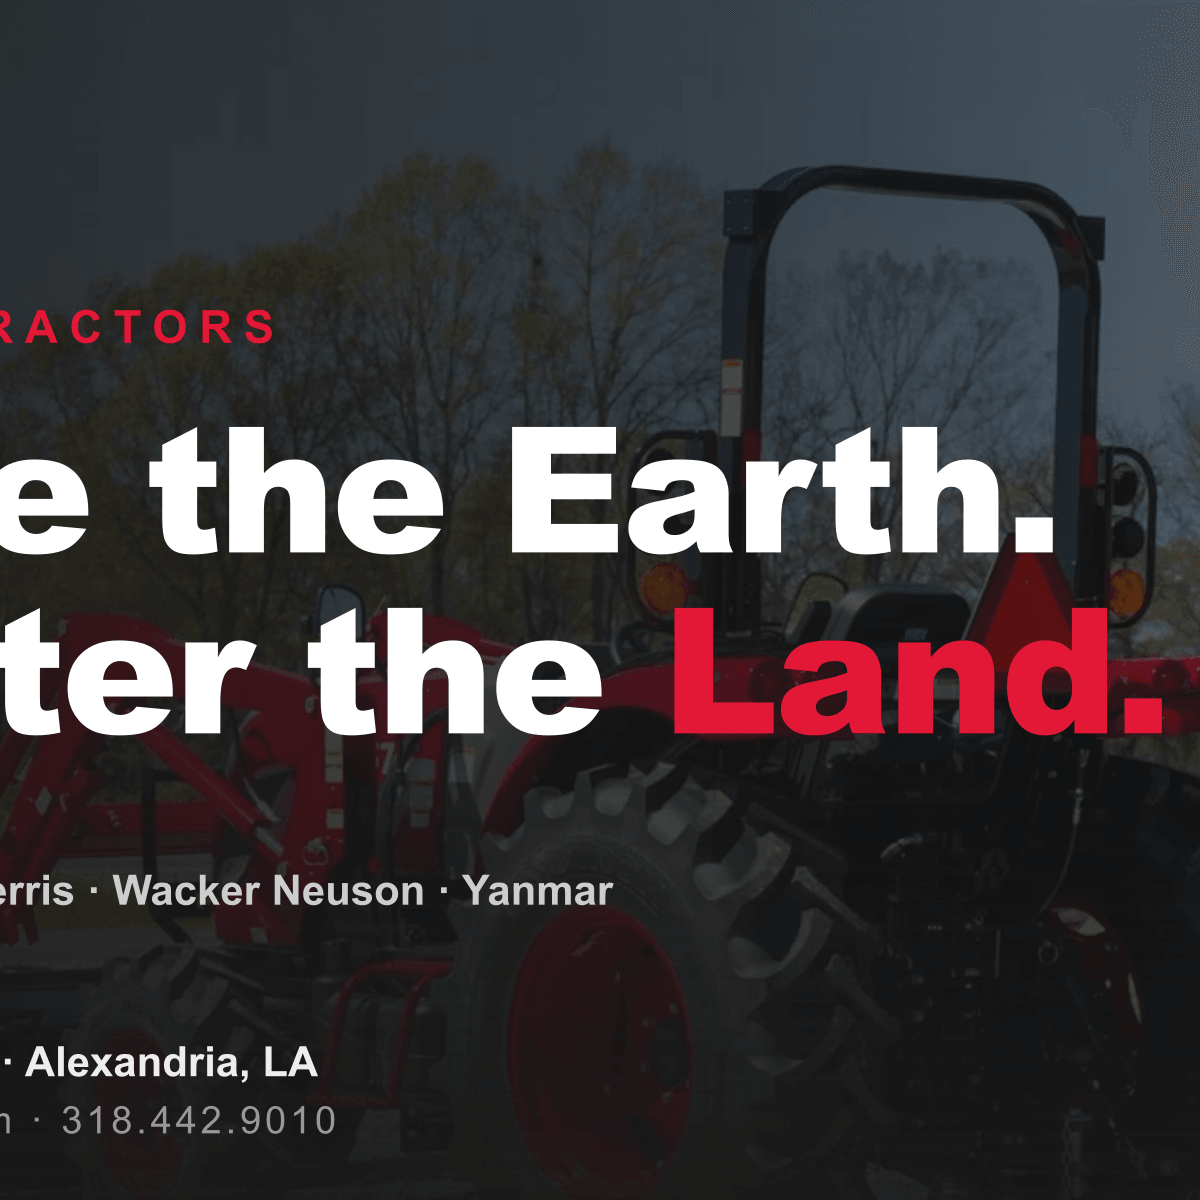
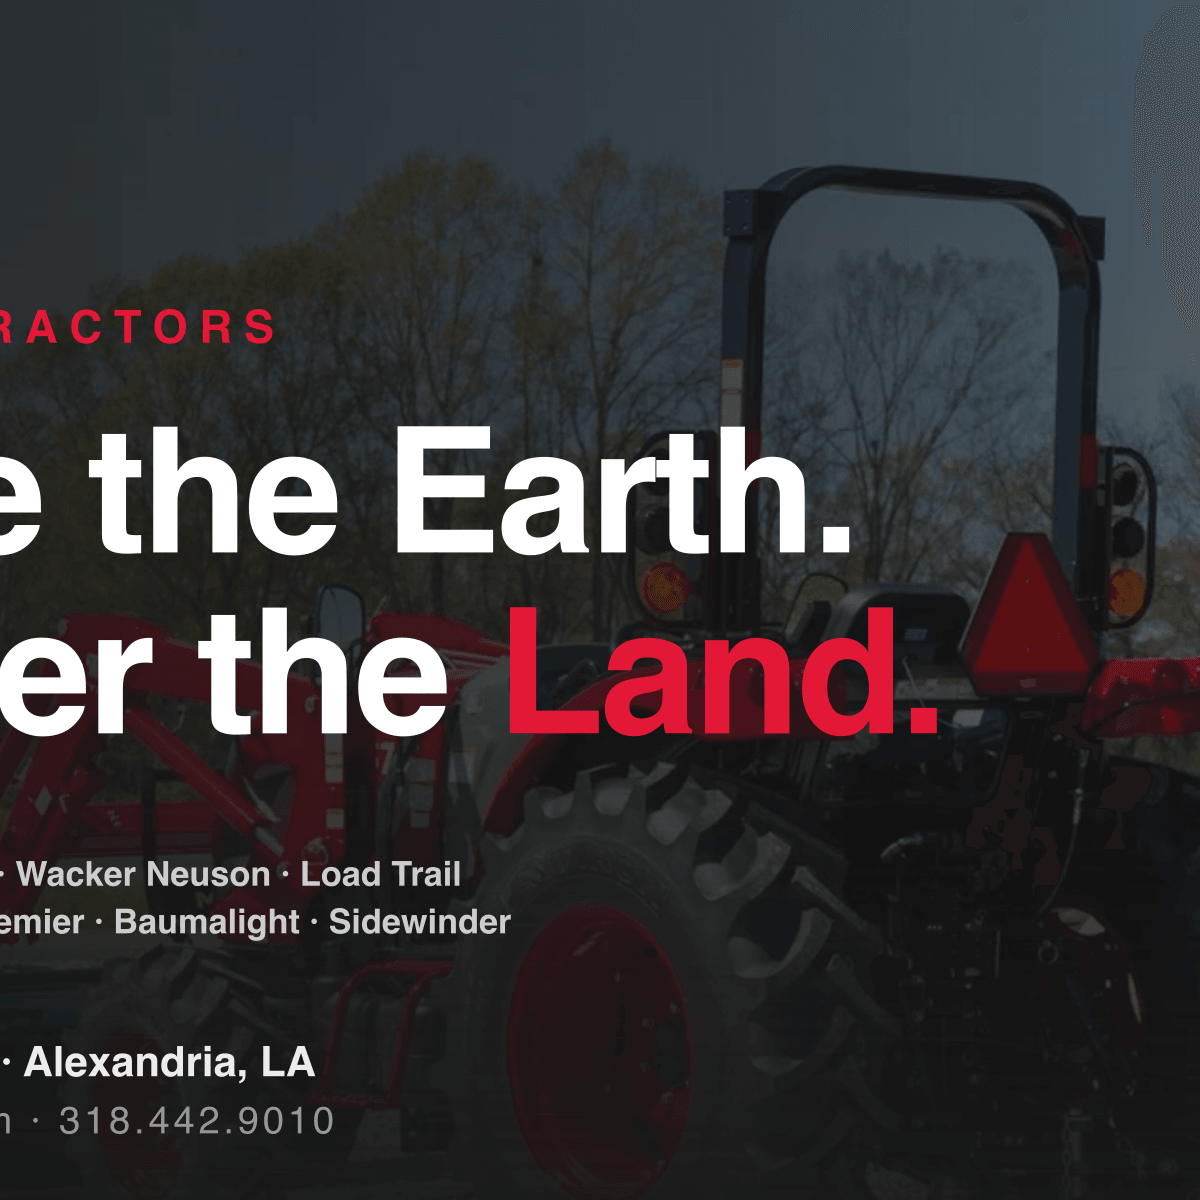
Update brands site-wide: add Load Trail, East Texas, Woods, Premier, Baumalight, Sidewinder

diff --git a/src/components/BrandLogos.tsx b/src/components/BrandLogos.tsx
@@ -4,7 +4,13 @@ const BrandLogos = () => {
         { name: "Mahindra", url: "/brands/mahindralogo.webp" },
         { name: "Ferris", url: "/brands/ferrislogo.webp" },
         { name: "TYM Tractors", url: "/brands/tymlogo.png" },
-        { name: "Wacker Neuson", url: "/brands/Wacker_Neuson_Logo.png" }
+        { name: "Wacker Neuson", url: "/brands/Wacker_Neuson_Logo.png" },
+        { name: "Load Trail", isText: true },
+        { name: "East Texas", isText: true },
+        { name: "Woods", isText: true },
+        { name: "Premier", isText: true },
+        { name: "Baumalight", isText: true },
+        { name: "Sidewinder", isText: true }
     ];
 
     return (
@@ -22,13 +28,19 @@ const BrandLogos = () => {
                             return (
                                 <div
                                     key={index}
-                                    className="shrink-0 snap-center w-28 sm:w-36 md:w-48 lg:w-56 xl:w-72 transition-transform duration-300 hover:-translate-y-1 hover:drop-shadow-md flex justify-center"
+                                    className="shrink-0 snap-center w-28 sm:w-36 md:w-48 lg:w-56 xl:w-72 transition-transform duration-300 hover:-translate-y-1 hover:drop-shadow-md flex justify-center items-center"
                                 >
-                                    <img 
-                                        src={brand.url} 
-                                        alt={`${brand.name} Logo`} 
-                                        className={`w-full h-auto object-contain ${isTYM ? 'max-h-16 sm:max-h-20 md:max-h-32 lg:max-h-40' : 'max-h-12 sm:max-h-16 md:max-h-28 lg:max-h-36'}`}
-                                    />
+                                    {brand.isText ? (
+                                        <span className="font-heading font-black text-xl sm:text-2xl md:text-3xl lg:text-4xl text-charcoal/80 uppercase tracking-tight text-center whitespace-nowrap">
+                                            {brand.name}
+                                        </span>
+                                    ) : (
+                                        <img 
+                                            src={brand.url} 
+                                            alt={`${brand.name} Logo`} 
+                                            className={`w-full h-auto object-contain ${isTYM ? 'max-h-16 sm:max-h-20 md:max-h-32 lg:max-h-40' : 'max-h-12 sm:max-h-16 md:max-h-28 lg:max-h-36'}`}
+                                        />
+                                    )}
                                 </div>
                             );
                         })}

diff --git a/src/pages/About.tsx b/src/pages/About.tsx
@@ -7,7 +7,7 @@ import PageHero from '../components/PageHero';
 
 const milestones = [
   { year: '2010s', title: 'One bay, one promise', copy: 'We opened on Hwy 71 with a simple rule: do right by the people who keep Louisiana running.' },
-  { year: 'Today', title: 'Full-line dealer', copy: 'TYM, Mahindra, Ferris, and Wacker Neuson, backed by a parts counter and factory-trained techs.' },
+  { year: 'Today', title: 'Full-line dealer', copy: 'TYM, Mahindra, Ferris, Wacker Neuson, Load Trail, East Texas, Woods, Premier, Baumalight, and Sidewinder, backed by a parts counter and factory-trained techs.' },
   { year: 'Always', title: 'Field-first support', copy: 'When season hits, you need answers fast. Our crew is determined to keep the iron turning.' },
 ];
 
@@ -25,7 +25,7 @@ const About = () => {
         <title>About Us | Red Dirt Tractors &amp; Construction Equipment</title>
         <meta
           name="description"
-          content="Family-owned TYM, Mahindra, Ferris, and Wacker Neuson dealer in Alexandria, LA. Our story, values, and why Central Louisiana trusts Red Dirt for iron and service."
+          content="Family-owned TYM, Mahindra, Ferris, Wacker Neuson, Load Trail, East Texas, Woods, Premier, Baumalight, and Sidewinder dealer in Alexandria, LA. Our story, values, and why Central Louisiana trusts Red Dirt for iron and service."
         />
         <link rel="canonical" href="https://reddirt-tractors.com/about" />
       </Helmet>

diff --git a/src/pages/DealerCity.tsx b/src/pages/DealerCity.tsx
@@ -14,7 +14,7 @@ const DealerCity = () => {
     }
 
     const title = `Tractor Dealer in ${city.name}, ${city.state} | Red Dirt Tractors`;
-    const description = `Authorized TYM, Mahindra, Ferris, and Wacker Neuson dealer serving ${city.name}, ${city.state} from our Alexandria, LA store. Sales, parts, service, financing, and trade-ins.`;
+    const description = `Authorized TYM, Mahindra, Ferris, Wacker Neuson, Load Trail, East Texas, Woods, Premier, Baumalight, and Sidewinder dealer serving ${city.name}, ${city.state} from our Alexandria, LA store. Sales, parts, service, financing, and trade-ins.`;
 
     const breadcrumbs = {
         '@context': 'https://schema.org',
@@ -69,7 +69,7 @@ const DealerCity = () => {
                         </h2>
                         <div className="space-y-5 text-charcoal/70 font-medium leading-relaxed text-base md:text-lg max-w-2xl">
                             <p>
-                                Red Dirt Tractors carries TYM, Mahindra, Ferris, and Wacker Neuson
+                                Red Dirt Tractors carries TYM, Mahindra, Ferris, Wacker Neuson, Load Trail, East Texas, Woods, Premier, Baumalight, and Sidewinder
                                 at our Alexandria store. Customers from {city.name} regularly
                                 drive in for sales and trade-ins, and we keep the parts counter and
                                 service bays running for ongoing support.

diff --git a/index.html b/index.html
@@ -27,7 +27,7 @@
     <meta property="og:image" content="https://reddirt-tractors.com/og-image.png" />
     <meta property="og:image:width" content="1200" />
     <meta property="og:image:height" content="630" />
-    <meta property="og:image:alt" content="Red Dirt Tractors - Move the Earth, Master the Land. Central Louisiana dealer for TYM, Mahindra, Ferris, and Wacker Neuson." />
+    <meta property="og:image:alt" content="Red Dirt Tractors - Move the Earth, Master the Land. Central Louisiana dealer for TYM, Mahindra, Ferris, Wacker Neuson, Load Trail, East Texas, Woods, Premier, Baumalight, and Sidewinder." />
 
     <!-- Twitter -->
     <meta name="twitter:card" content="summary_large_image" />

diff --git a/src/components/Departments.tsx b/src/components/Departments.tsx
@@ -16,7 +16,7 @@ const featured: Tile = {
     to: '/inventory',
     eyebrow: 'Live inventory',
     title: 'On the lot.',
-    body: 'TYM, Mahindra, Ferris. Compact utility through 100+ HP. Updated daily from our floor.',
+    body: 'TYM, Mahindra, Ferris, Wacker Neuson, Load Trail, East Texas, Woods, Premier, Baumalight, and Sidewinder. Updated daily from our floor.',
     image: '/tractors/12.jpg',
 };
 

diff --git a/src/pages/Home.tsx b/src/pages/Home.tsx
@@ -16,7 +16,7 @@ const Home = () => {
                 </title>
                 <meta
                     name="description"
-                    content="Red Dirt Tractors is Central Louisiana's heavy iron dealership on Hwy 71 South in Alexandria. Authorized for TYM, Mahindra, Ferris, and Wacker Neuson with full parts, service, and financing."
+                    content="Red Dirt Tractors is Central Louisiana's heavy iron dealership on Hwy 71 South in Alexandria. Authorized for TYM, Mahindra, Ferris, Wacker Neuson, Load Trail, East Texas, Woods, Premier, Baumalight, and Sidewinder with full parts, service, and financing."
                 />
             </Helmet>
             <Hero />

diff --git a/src/pages/PartsService.tsx b/src/pages/PartsService.tsx
@@ -9,7 +9,7 @@ const PartsService = () => {
                 <title>Parts &amp; Service | Red Dirt Tractors in Alexandria, LA</title>
                 <meta
                     name="description"
-                    content="Schedule certified service or order genuine parts for TYM, Mahindra, Ferris, and Wacker Neuson equipment. In-shop repair available from our Hwy 71 South store."
+                    content="Schedule certified service or order genuine parts for TYM, Mahindra, Ferris, Wacker Neuson, Load Trail, East Texas, Woods, Premier, Baumalight, and Sidewinder equipment. In-shop repair available from our Hwy 71 South store."
                 />
                 <link rel="canonical" href="https://reddirt-tractors.com/parts-service" />
             </Helmet>